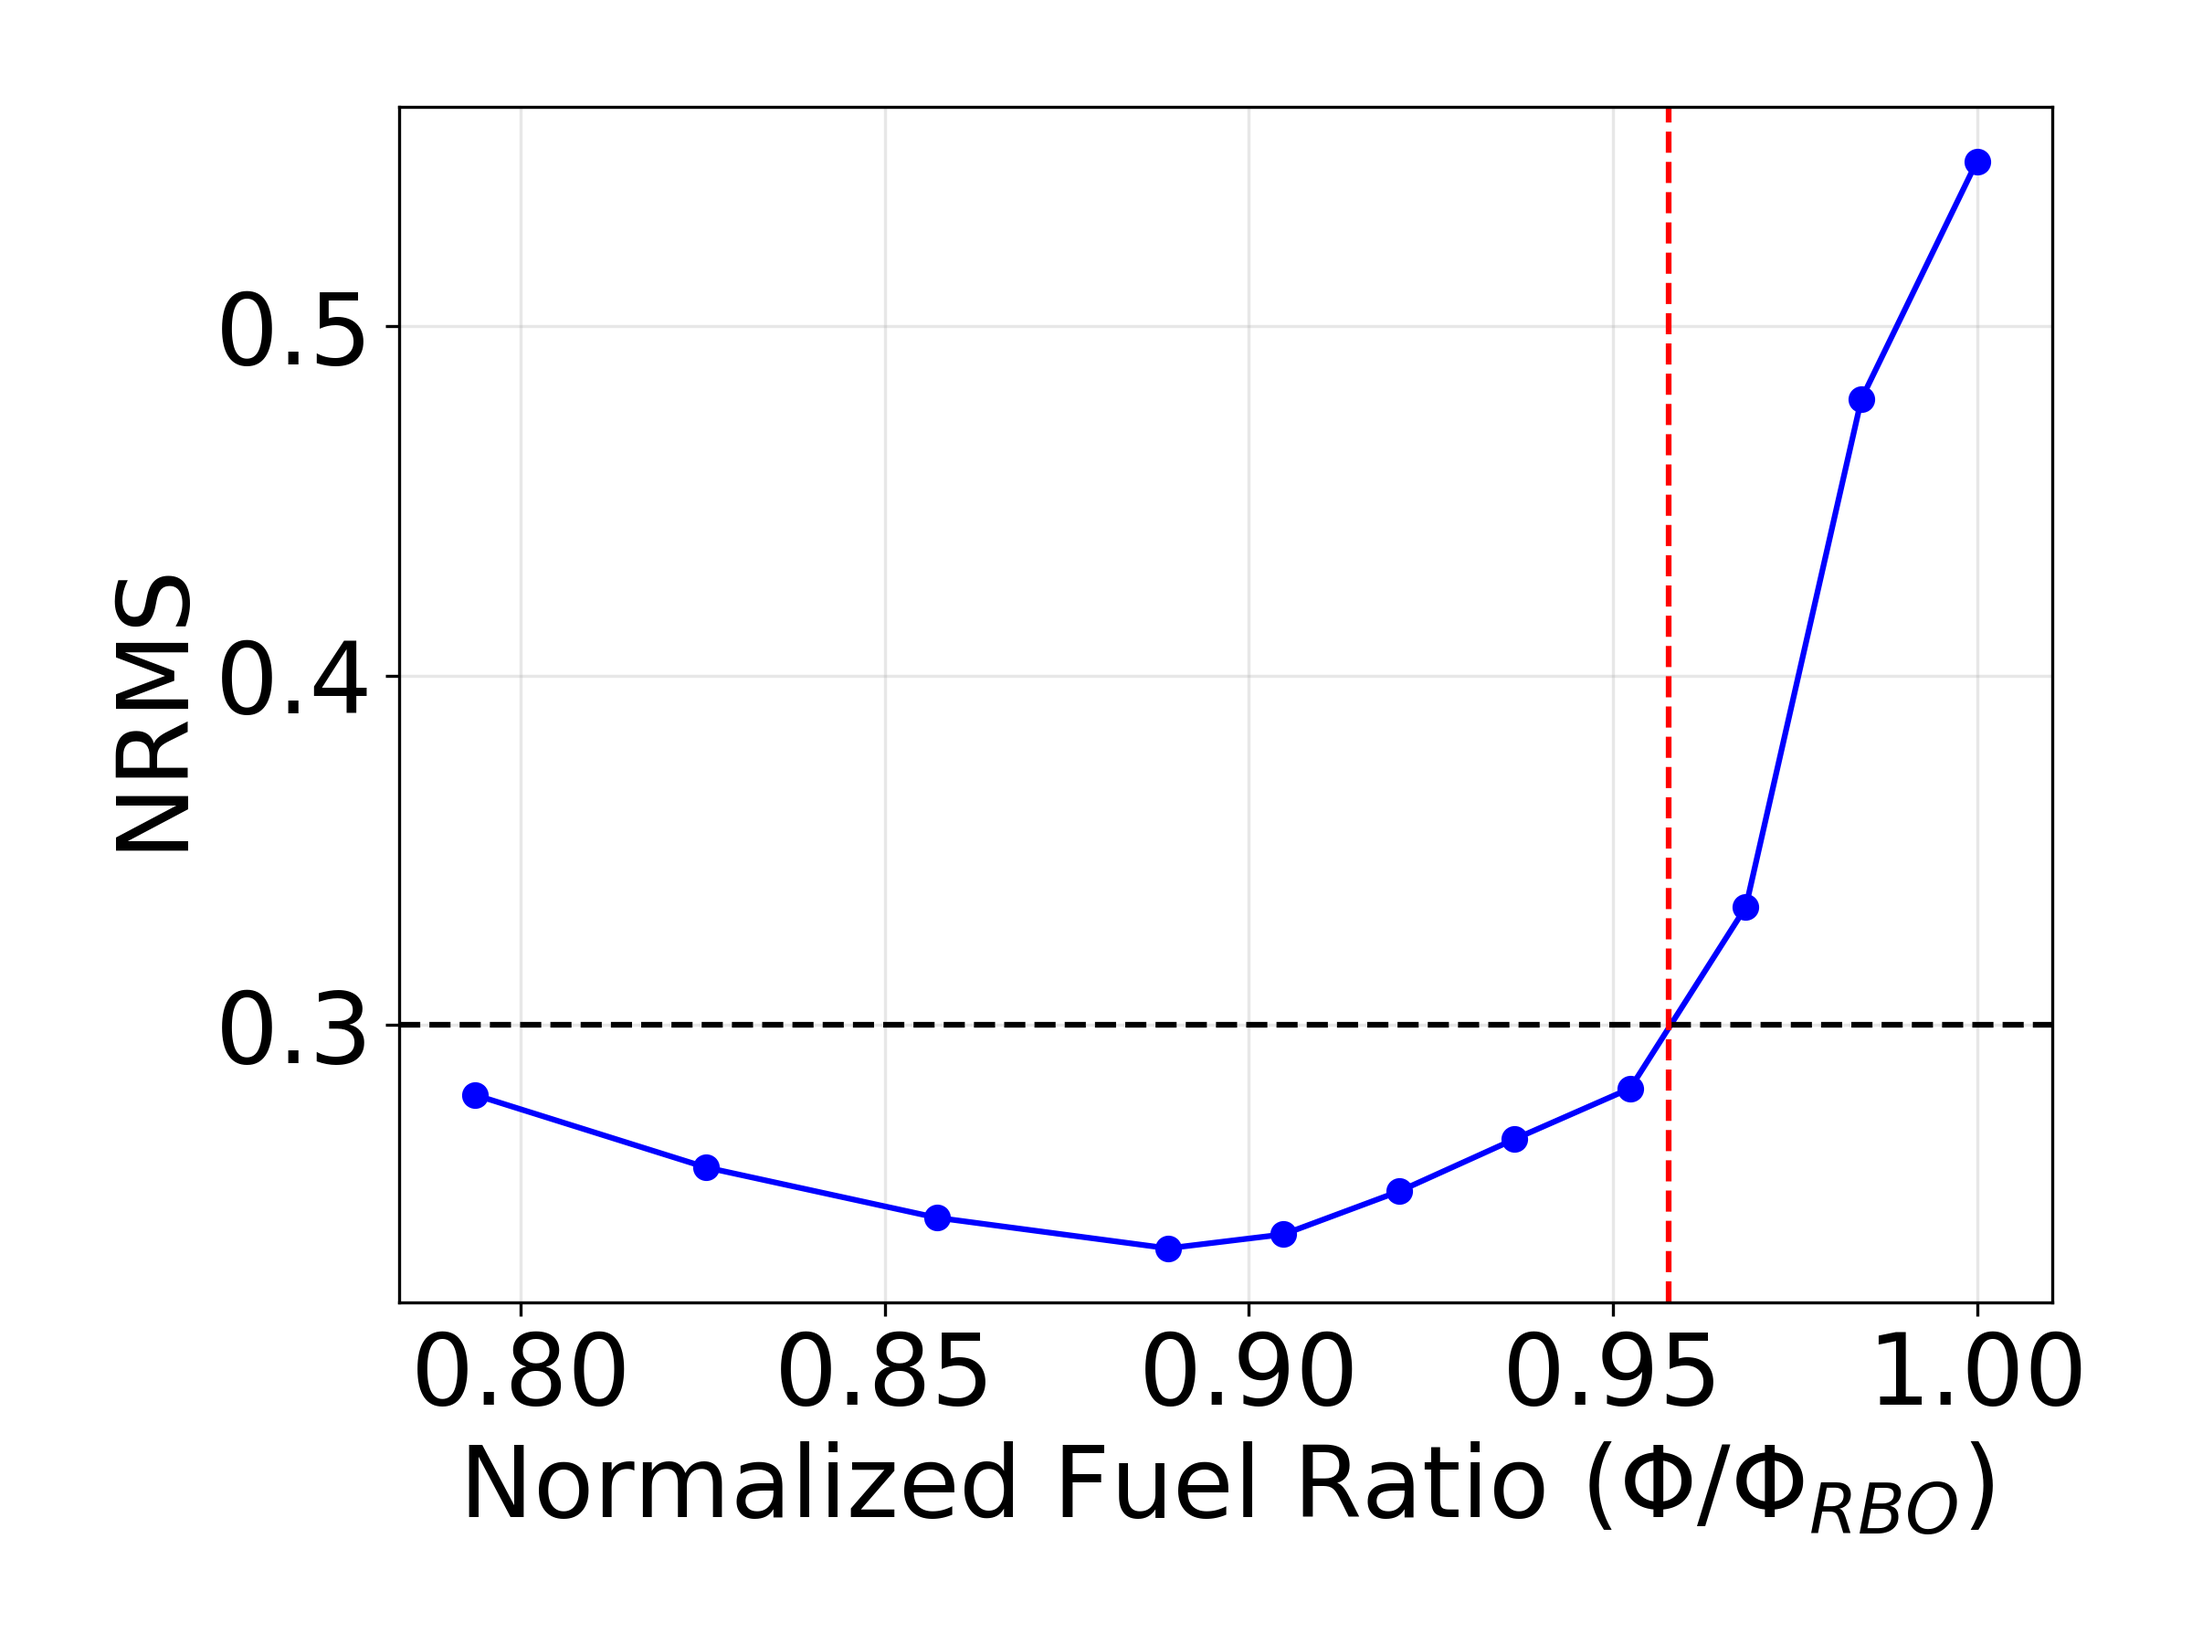
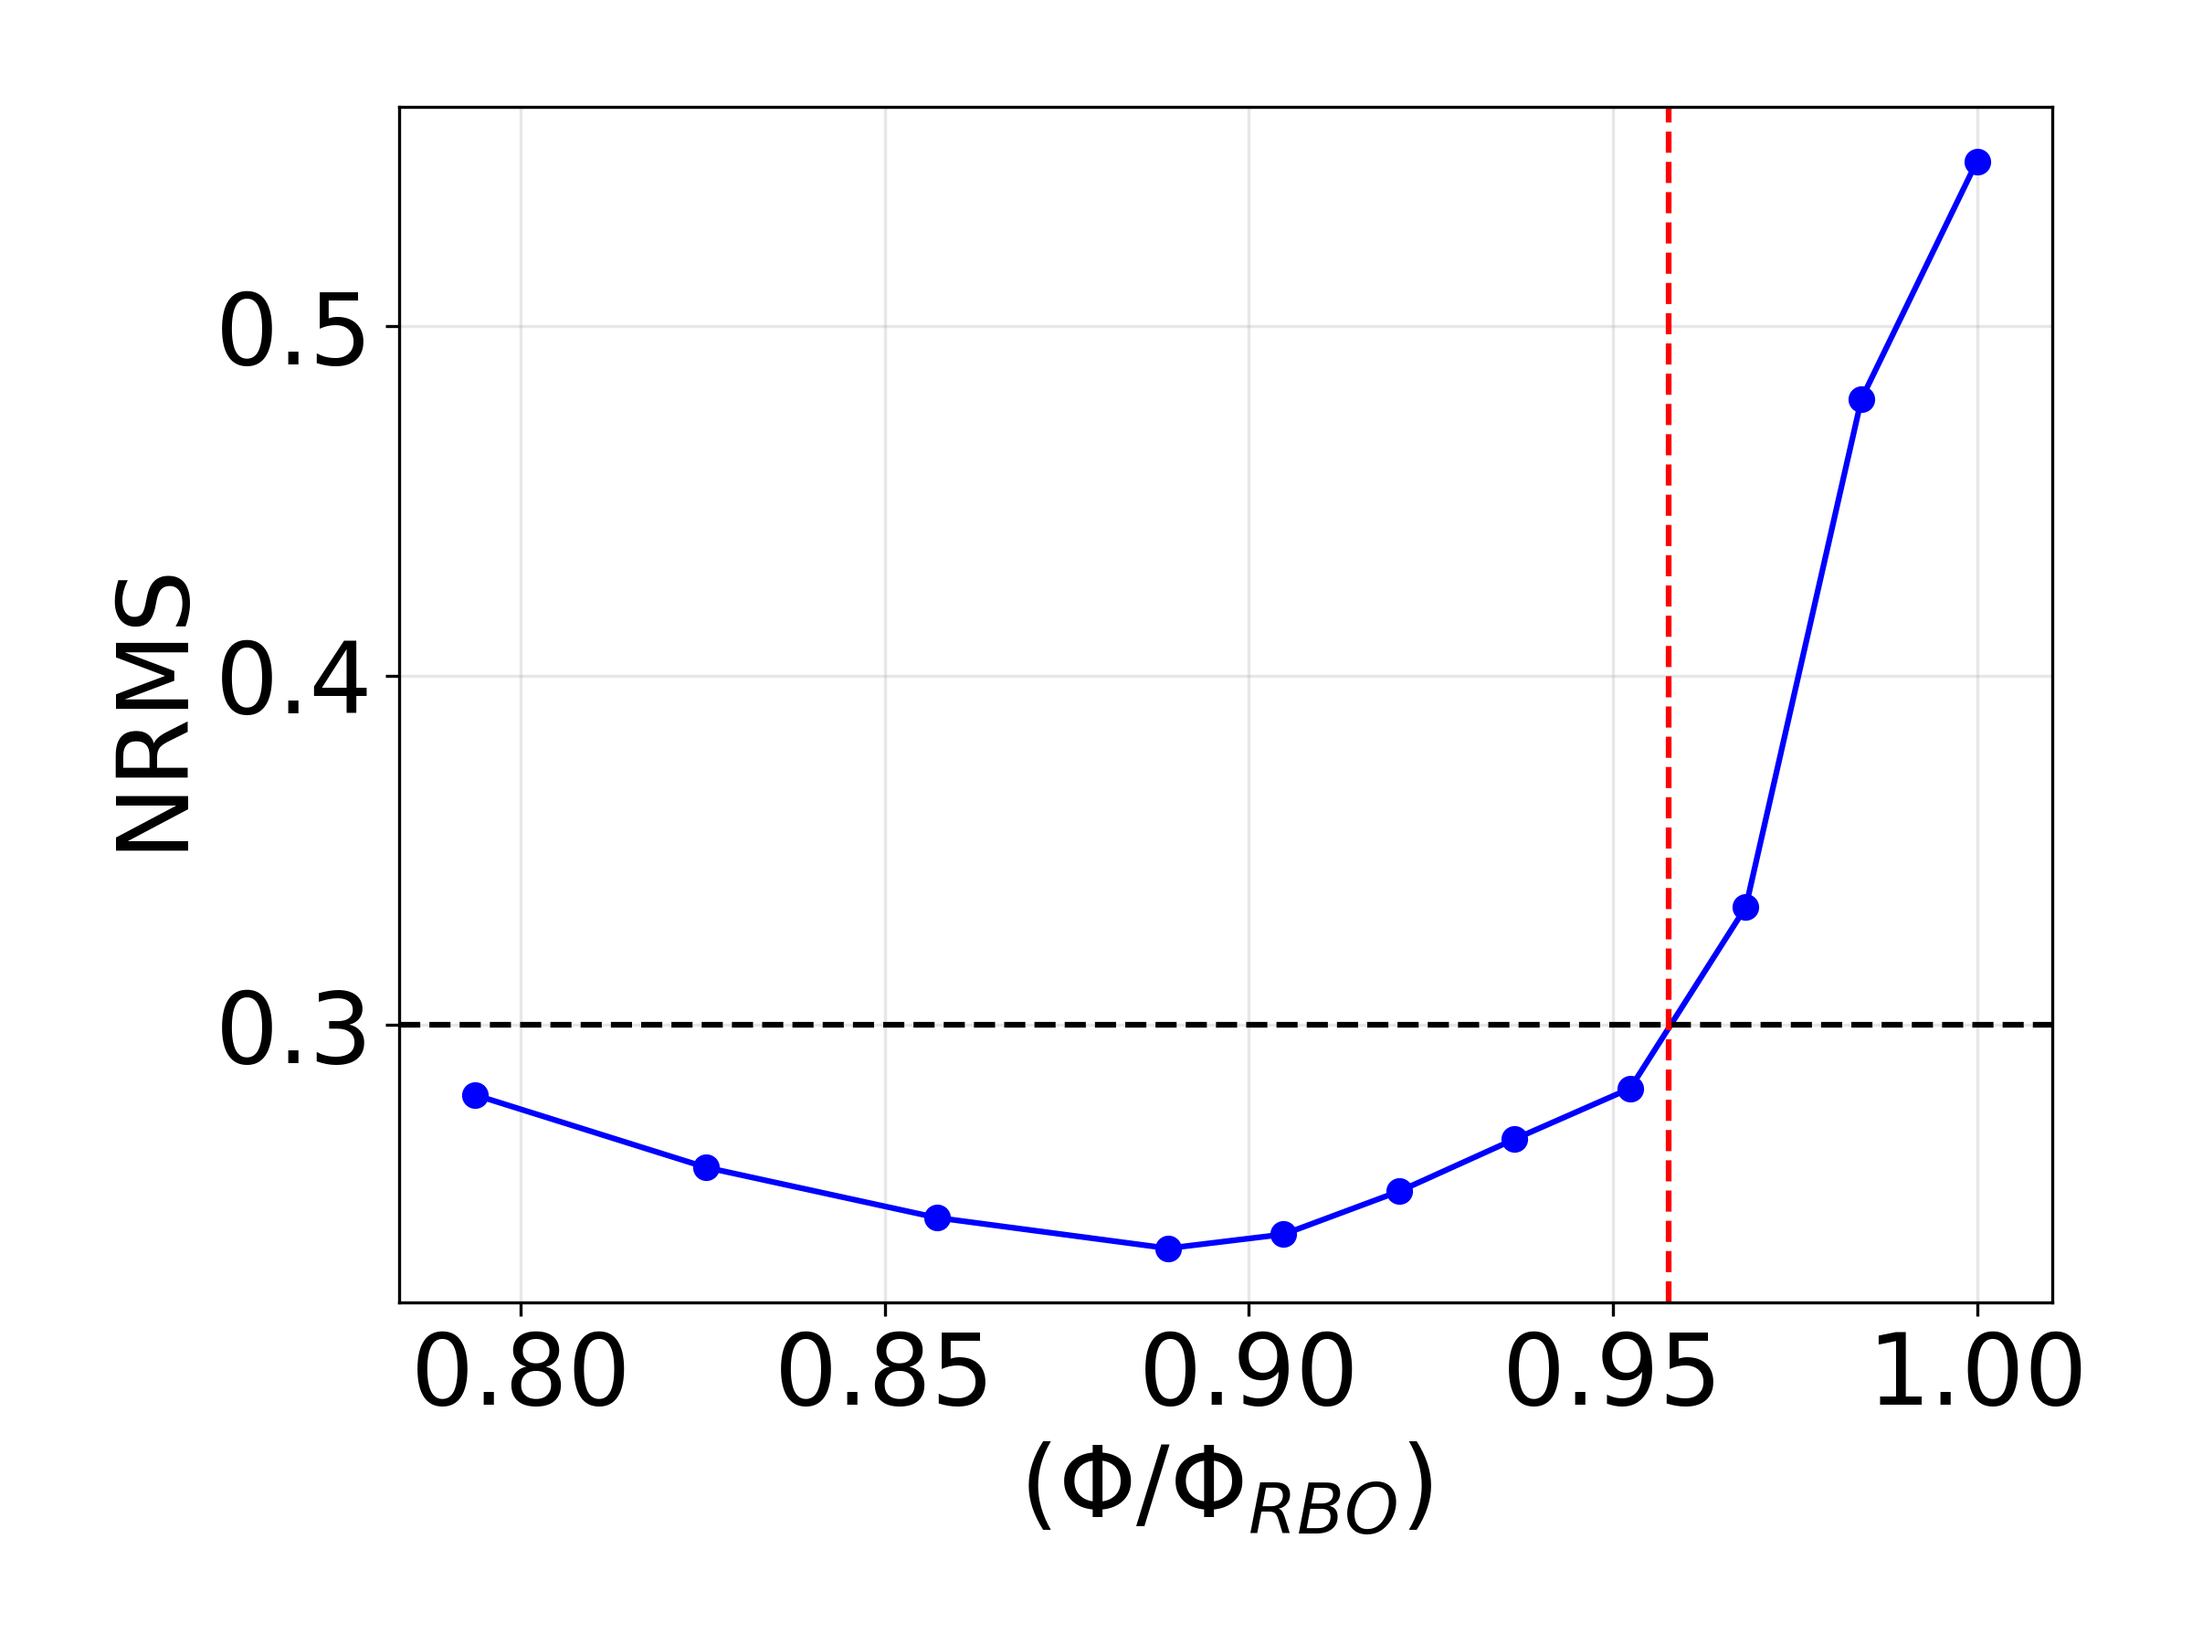
Tweaked code, removed unwanted data

Changed region(s): [[0.1875, 0.8711, 0.9062, 0.9333]]

diff --git a/NRMS.py b/NRMS.py
@@ -84,7 +84,7 @@ plt.axhline(y=0.3, linestyle='--', color='black')
 plt.axvline(x=0.9576, linestyle='--', color='red')
 
 # labels
-plt.xlabel("Normalized Fuel Ratio ($\\Phi/\\Phi_{{RBO}}$)") 
+plt.xlabel("($\\Phi/\\Phi_{{RBO}}$)") 
 plt.ylabel("NRMS")
 
 
